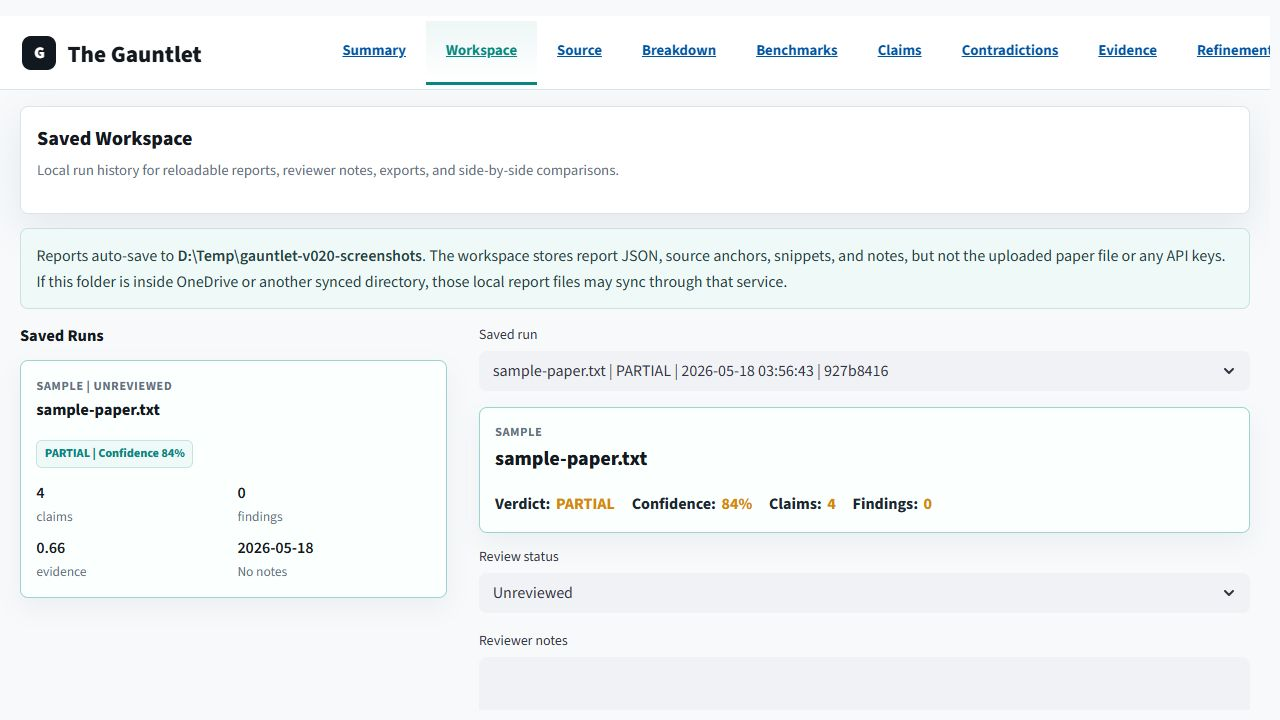
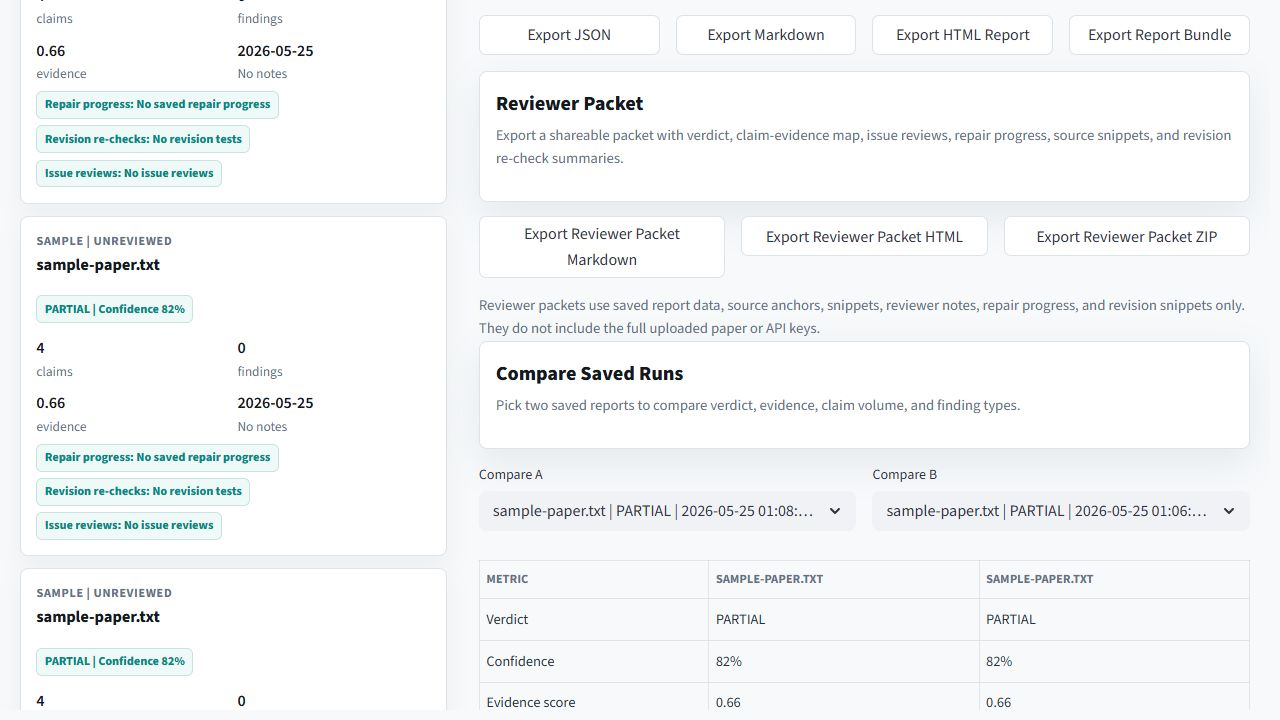
Add first-run onboarding and launcher diagnostics

diff --git a/app.py b/app.py
@@ -692,6 +692,30 @@ div[data-baseweb="tab-highlight"] {
   padding: .2rem .48rem;
   margin-top: .4rem;
 }
+.start-grid {
+  display: grid;
+  grid-template-columns: repeat(auto-fit, minmax(180px, 1fr));
+  gap: .7rem;
+  margin-top: .85rem;
+}
+.start-step {
+  min-height: 112px;
+  border: 1px solid var(--gauntlet-border);
+  border-radius: 8px;
+  padding: .8rem;
+  background: #f9fbfa;
+}
+.start-step strong {
+  display: block;
+  color: var(--gauntlet-ink);
+  font-size: .9rem;
+  margin-bottom: .35rem;
+}
+.start-step span {
+  color: var(--gauntlet-muted);
+  font-size: .82rem;
+  line-height: 1.35;
+}
 .source-snippet {
   border-left: 3px solid var(--gauntlet-teal);
   background: #fbfcfd;
@@ -968,6 +992,7 @@ div[data-baseweb="tab-highlight"] {
   .batch-grid,
   .source-viewer-grid,
   .detail-grid,
+  .start-grid,
   .stat-strip,
   .footer-status {
     grid-template-columns: 1fr;
@@ -1064,6 +1089,11 @@ def save_report(report, paper_text: str, run_kind: str = "analysis", benchmark_r
     report_store()["workspace_run_id"] = saved_run.run_id
 
 
+def run_sample_analysis() -> None:
+    report = analyze_paper_text(SAMPLE_PAPER, source_name="sample-paper.txt")
+    save_report(report, SAMPLE_PAPER, run_kind="sample")
+
+
 def open_saved_run(saved_run) -> None:
     st.session_state["report"] = saved_run.report
     st.session_state["paper_text"] = ""
@@ -1153,9 +1183,9 @@ def render_upload_panel() -> None:
             try:
                 run_kind = "analysis"
                 if use_sample:
-                    paper_text = SAMPLE_PAPER
-                    report = analyze_paper_text(paper_text, source_name="sample-paper.txt")
-                    run_kind = "sample"
+                    run_sample_analysis()
+                    st.rerun()
+                    return
                 elif upload is not None:
                     loaded_document = load_document_from_bytes(upload.name, upload.getvalue())
                     paper_text = loaded_document.text
@@ -1204,6 +1234,12 @@ def render_empty_state() -> None:
             <div class="verdict-copy">Upload a paper or use the built-in sample to generate a local verdict. The report will appear here with claim counts, evidence quality, contradictions, and export options.</div>
           </div>
         </div>
+        """,
+        unsafe_allow_html=True,
+    )
+    render_start_here_panel()
+    st.markdown(
+        """
         <div class="stat-strip">
           <div class="stat-tile"><div class="stat-title">Claims Made</div><div class="stat-number">-</div><div class="stat-note">Waiting for analysis</div></div>
           <div class="stat-tile"><div class="stat-title">Supported Claims</div><div class="stat-number">-</div><div class="stat-note">Local rules only</div></div>
@@ -1213,6 +1249,31 @@ def render_empty_state() -> None:
         """,
         unsafe_allow_html=True,
     )
+
+
+def render_start_here_panel() -> None:
+    with st.container(border=True):
+        st.markdown(
+            """
+            <div class="panel-title">Start Here</div>
+            <div class="muted-note">The fastest first run is the built-in sample. After that, upload a real paper and follow the audit trail from verdict to source snippets and exports.</div>
+            """,
+            unsafe_allow_html=True,
+        )
+        if st.button("Try Sample Paper", type="primary", use_container_width=True):
+            run_sample_analysis()
+            st.rerun()
+        st.markdown(
+            """
+            <div class="start-grid">
+              <div class="start-step"><strong>1. Try sample</strong><span>Run the demo paper to confirm the local checker and workspace are working.</span></div>
+              <div class="start-step"><strong>2. Upload paper</strong><span>Use PDF, DOCX, TXT, or MD. The normal checker does not need an API key.</span></div>
+              <div class="start-step"><strong>3. Inspect issues</strong><span>Open Breakdown, Source Reader, Repair Workshop, and Evidence to trace every finding.</span></div>
+              <div class="start-step"><strong>4. Export packet</strong><span>Use Workspace to export JSON, Markdown, HTML, report bundles, or reviewer packets.</span></div>
+            </div>
+            """,
+            unsafe_allow_html=True,
+        )
 
 
 def render_report_center(report) -> None:

diff --git a/tests/test_app_smoke.py b/tests/test_app_smoke.py
@@ -19,7 +19,24 @@ def test_streamlit_app_renders_primary_controls():
     assert not app.exception
     assert app.file_uploader
     assert any(button.label == "Analyze Paper" for button in app.button)
+    assert any(button.label == "Try Sample Paper" for button in app.button)
     assert any("The Gauntlet" in item.value for item in app.markdown)
+    assert any("Start Here" in item.value for item in app.markdown)
+
+
+def test_streamlit_start_here_sample_button_produces_report():
+    app = AppTest.from_file("app.py")
+    app.run(timeout=20)
+
+    sample_button = next(button for button in app.button if button.label == "Try Sample Paper")
+    sample_button.click()
+    app.run(timeout=20)
+
+    assert not app.exception
+    report = app.session_state["report"]
+    assert report.source_name == "sample-paper.txt"
+    assert report.verdict in {"RESOLVES", "PARTIAL", "FAILS", "CREATES_NEW_PARADOXES"}
+    assert list_saved_runs()
 
 
 def test_streamlit_sample_workflow_produces_report():

diff --git a/tests/test_release_polish.py b/tests/test_release_polish.py
@@ -44,6 +44,11 @@ def test_windows_launcher_keeps_default_install_non_ai():
     assert not any("pip install -r requirements-ai.txt" in line for line in command_lines)
     assert "requirements-ai.txt" in launcher
     assert "http://localhost:8501" in launcher
+    assert ".gauntlet\\logs" in launcher
+    assert "Launcher log:" in launcher
+    assert "Repo folder:" in launcher
+    assert "Venv folder:" in launcher
+    assert "Streamlit stopped before The Gauntlet could open." in launcher
 
 
 def test_drag_drop_analyzer_keeps_default_install_non_ai():
@@ -90,3 +95,11 @@ def test_local_workspace_data_is_gitignored():
 
     assert ".gauntlet/" in gitignore
     assert "gauntlet-reports/" in gitignore
+
+
+def test_release_checklist_includes_first_run_and_launcher_log_checks():
+    checklist = (ROOT / "docs" / "RELEASE_CHECKLIST.md").read_text(encoding="utf-8")
+
+    assert "launcher log" in checklist.lower()
+    assert "Try Sample Paper" in checklist
+    assert "Reviewer Packet" in checklist

diff --git a/CHANGELOG.md b/CHANGELOG.md
@@ -4,6 +4,25 @@
 
 No unreleased changes yet.
 
+## v0.18.0 - First-Run Onboarding + Download QA
+
+This release improves the GitHub ZIP first-run path for new local users.
+
+### Added
+
+- Added a `Start Here` panel on the Summary page when no report is loaded.
+- Added a `Try Sample Paper` button that runs the built-in sample and saves the
+  result to the local workspace.
+- Added launcher diagnostics and a local troubleshooting log under
+  `.gauntlet/logs/`.
+
+### Changed
+
+- `Start-Gauntlet.bat` now prints the repo path, virtual environment path,
+  Python version, Streamlit URL, and clearer setup failure guidance.
+- Updated public docs, release checklist, and screenshots for the first-run
+  flow and Reviewer Packet workspace exports.
+
 ## v0.17.0 - Reviewer Packet Export
 
 This release adds reviewer-ready exports for sharing The Gauntlet's audit trail

diff --git a/README.md b/README.md
@@ -11,7 +11,8 @@ rule-based verdict: `RESOLVES`, `PARTIAL`, `FAILS`, or
 2. Choose `Download ZIP`.
 3. Unzip the folder.
 4. Double-click `Start-Gauntlet.bat`.
-5. Upload a `.pdf`, `.docx`, `.txt`, or `.md` paper and press `Analyze Paper`.
+5. When the app opens, press `Try Sample Paper` first or upload a `.pdf`,
+   `.docx`, `.txt`, or `.md` paper and press `Analyze Paper`.
 
 The default flow does not call any AI provider. There is no API key setup for
 the normal checker. The app runs on your machine and uses deterministic rules
@@ -28,6 +29,10 @@ workspace stores report JSON, source anchors, snippets, and notes, but not the
 uploaded paper file or API keys. If your repo folder lives inside OneDrive,
 Dropbox, or another synced folder, those local report files may still sync
 through that service.
+
+First run tip: the Summary page shows a `Start Here` panel until a report is
+loaded. Use `Try Sample Paper` to confirm the launcher, local rules, and
+workspace are working before uploading a private paper.
 
 ## Screenshots
 
@@ -48,11 +53,13 @@ through that service.
 1. Download this repo from GitHub.
 2. Unzip it.
 3. Double-click `Start-Gauntlet.bat`.
-4. Upload a `.pdf`, `.docx`, `.txt`, or `.md` paper.
-5. Press `Analyze Paper`.
+4. Press `Try Sample Paper` for a quick local smoke test.
+5. Upload a `.pdf`, `.docx`, `.txt`, or `.md` paper and press `Analyze Paper`.
 
 The launcher creates a local `.venv`, installs the requirements, and opens the
-Streamlit app in your browser.
+Streamlit app in your browser. It also prints the repo path, Python version,
+virtual environment path, browser URL, and a troubleshooting log path under
+`.gauntlet/logs/`.
 
 You can also drag a paper or folder onto `Analyze-Paper.bat` to write reports
 without opening the app.

diff --git a/docs/RELEASE_CHECKLIST.md b/docs/RELEASE_CHECKLIST.md
@@ -7,6 +7,7 @@ Use this checklist before merging `non-ai-app-v1` into `main` or publishing a re
 - [ ] Run `.venv\Scripts\python.exe -m pytest` locally.
 - [ ] Confirm GitHub Actions passes on the branch or pull request.
 - [ ] Confirm `Start-Gauntlet.bat` installs `requirements.txt`, not optional AI packages.
+- [ ] Confirm `Start-Gauntlet.bat` prints the launcher log path under `.gauntlet/logs/`.
 
 ## Windows Download ZIP Check
 
@@ -16,14 +17,18 @@ Use this checklist before merging `non-ai-app-v1` into `main` or publishing a re
 - [ ] Confirm the launcher accepts Python 3.10 or newer.
 - [ ] Confirm the launcher creates `.venv` and installs local requirements.
 - [ ] Confirm the browser opens at `http://localhost:8501`.
+- [ ] Confirm `.gauntlet/logs/Start-Gauntlet.log` exists after launch.
 
 ## App Smoke Check
 
+- [ ] Confirm a fresh Summary page shows the `Start Here` panel.
+- [ ] Press `Try Sample Paper` and confirm a verdict appears.
 - [ ] Run the built-in sample paper.
 - [ ] Confirm the Summary page shows a verdict.
 - [ ] Confirm the Breakdown page shows claim audit and rule events.
 - [ ] Run one Benchmark sample and confirm expected-vs-actual results.
 - [ ] Open Refinement and confirm Gemini, OpenAI, and Anthropic provider choices are visible without installing AI dependencies.
+- [ ] Open Workspace and confirm Reviewer Packet exports are visible.
 - [ ] Export JSON and Markdown reports.
 
 ## Public Page Check